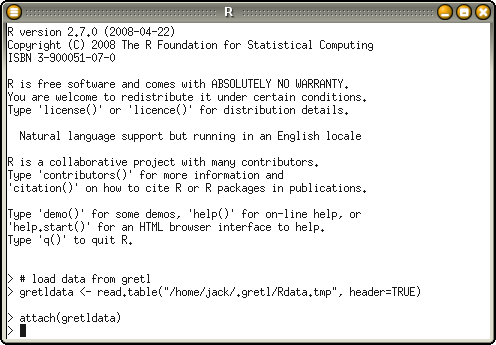
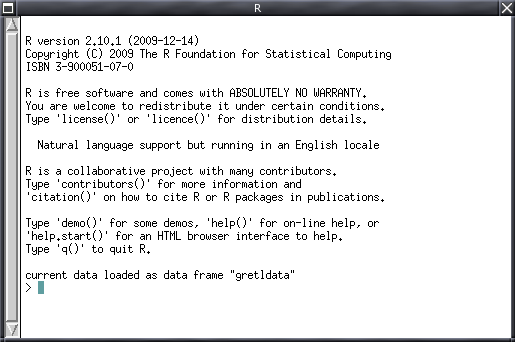
update gretl <-> R documentation

Changed region(s): [[0.0, 0.0, 1.0, 1.0], [0.6956, 0.8187, 0.8468, 0.8772]]

diff --git a/doc/tex/gretlR.tex b/doc/tex/gretlR.tex
@@ -111,18 +111,14 @@ installed and working on your system and that \app{gretl} knows where
 it is. The relevant settings can be found by selecting the ``Tools,
 Preferences, General'' menu entry, under the ``Programs'' tab.
 
-Assuming \app{R} was launched successfully, you will notice that two
-commands have been executed automatically:
-\begin{code}
-  gretldata <- read.table("/home/jack/.gretl/Rdata.tmp", header=TRUE)
-  attach(gretldata)
-\end{code}
-These commands have the effect of loading our dataset into the \app{R}
-workspace in the form of a \emph{data frame} (one of several forms in
-which \app{R} can store data). Use of a data frame enables the
-subsequent \texttt{attach()} command, which sets things up so that the
-variable names defined in the \app{gretl} workspace are available as
-valid identifiers within \app{R}.
+Assuming \app{R} was launched successfully, you will see notification
+that the data from gretl are available.  In the background,
+\app{gretl} has arranged for two \app{R} commands to be executed, one
+to load the \app{gretl} dataset in the form of a \emph{data frame}
+(one of several forms in which \app{R} can store data) and one to
+\emph{attach} the data so that the variable names defined in the
+\app{gretl} workspace are available as valid identifiers within
+\app{R}.
 
 In order to replicate \app{gretl}'s OLS estimation, go into the \app{R}
 window and type at the prompt
@@ -193,22 +189,14 @@ Akaike information criterion & -483.39
 \end{table}
 
 If we now open an \app{R} session as described in the previous
-subsection, the data-passing mechanism is slightly different.  The
-\app{R} commands that read the data from \app{gretl} are in this case
-\begin{code}
-# load data from gretl
-gretldata <- read.table("/home/jack/.gretl/Rdata.tmp", header=TRUE)
-gretldata <- ts(gretldata, start=c(1949, 1), frequency = 12)
-\end{code}
-
-Since our data were defined in \app{gretl} as time series, we use an
-\app{R} \emph{time-series} object (\emph{ts} for short) for the
-transfer.  In this way we can retain in \app{R} useful information
-such as the periodicity of the data and the sample limits.  The
-downside is that the names of individual series, as defined in
-\app{gretl}, are not valid identifiers. In order to extract the
-variable \texttt{lg}, one needs to use the syntax
-\verb|lg <- gretldata[, "lg"]|.
+subsection, the data-passing mechanism is slightly different.  Since
+our data were defined in \app{gretl} as time series, we use an \app{R}
+\emph{time-series} object (\emph{ts} for short) for the transfer.  In
+this way we can retain in \app{R} useful information such as the
+periodicity of the data and the sample limits.  The downside is that
+the names of individual series, as defined in \app{gretl}, are not
+valid identifiers. In order to extract the variable \texttt{lg}, one
+needs to use the syntax \verb|lg <- gretldata[, "lg"]|.
 
 ARIMA estimation can be carried out by issuing the following two
 \app{R} commands:
@@ -412,41 +400,18 @@ gretl.export(vars)
 \end{code}
 %$
 
-In this case, running the above in \app{R} produces nothing more that
-the echoing of commands:
+Running this script via \app{gretl} produces minimal output:
 \begin{code}
-> # load data from gretl
-> gretldata <- read.table("/home/jack/.gretl/Rdata.tmp", header=TRUE)
-
-> gretldata <- ts(gretldata, start=c(1949, 1), frequency = 12)
-
-> # load script from gretl
-> # extract the log series 
-> y <- gretldata[, "lg"]
-
-> # estimate the model
-> strmod <- StructTS(y)
-
-> # save the fitted components (smoothed)
-> compon <- as.ts(tsSmooth(strmod))
-
-> # save the estimated variances
-> vars <- as.matrix(strmod$coef)
-
-> # export into gretl's temp dir
-> gretl.export(compon)
-
-> gretl.export(vars)
+current data loaded as ts object "gretldata"
+wrote /home/cottrell/.gretl/compon.csv 
+wrote /home/cottrell/.gretl/vars.mat 
 \end{code}
-%$
-
-However, we see from the output that the two \texttt{gretl.export()}
-commands ran without errors. Hence, we are ready to pull the results
-back into \app{gretl} by executing the following commands, either from
-the console or by creating a small script:\footnote{This example will
-  work on Linux and presumably on OSX without modifications. On the
-  Windows platform, you may have to substitute the ``\texttt{/}''
-  character with ``$\backslash$''.}
+However, we are now able to pull the results back into \app{gretl} by
+executing the following commands, either from the console or by
+creating a small script:\footnote{This example will work on Linux and
+  presumably on OSX without modifications. On the Windows platform,
+  you may have to substitute the ``\texttt{/}'' character with
+  ``$\backslash$''.}
 \begin{code}
 append @dotdir/compon.csv
 vars = mread("@dotdir/vars.mat")

diff --git a/lib/src/gretl_foreign.c b/lib/src/gretl_foreign.c
@@ -512,6 +512,7 @@ static int write_data_for_R (const double **Z,
 			     FILE *fp)
 {
     gchar *Rdata, *Rline;
+    int ts = dataset_is_time_series(pdinfo);
     int err;
 
     Rdata = g_strdup_printf("%sRdata.tmp", gretl_dot_dir);
@@ -528,7 +529,7 @@ static int write_data_for_R (const double **Z,
     fprintf(fp, "gretldata <- read.table(\"%s\", header=TRUE)\n", Rdata);
     g_free(Rdata);
 
-    if (dataset_is_time_series(pdinfo)) {
+    if (ts) {
 	char *p, datestr[OBSLEN];
 	int subper = 1;
 	    
@@ -544,9 +545,13 @@ static int write_data_for_R (const double **Z,
 	fputs("attach(gretldata)\n", fp);
     }
 
-    if (!err && (opt & OPT_I)) {
-	/* interactive: let the user see that this worked */
-	fputs("gretlmsg <- \"current data loaded as \\\"gretldata\\\"\\n\"\n", fp);
+    if (!err) {
+	/* let the user see that this worked */
+	if (ts) {
+	    fputs("gretlmsg <- \"current data loaded as ts object \\\"gretldata\\\"\\n\"\n", fp);
+	} else {
+	    fputs("gretlmsg <- \"current data loaded as data frame \\\"gretldata\\\"\\n\"\n", fp);
+	}
 	fputs("cat(gretlmsg)\n", fp);
     }
 
@@ -576,6 +581,8 @@ static void write_R_export_func (FILE *fp)
     fputs("    write(dim(x), fname)\n", fp);
     fputs("    write(t(x), file=fname, ncolumns=ncol(x), append=TRUE)\n", fp);
     fputs("  }\n", fp);
+    fputs("  gretlmsg <- paste(\"wrote\", fname, \"\\n\")\n", fp);
+    fputs("  cat(gretlmsg)\n", fp);
     fputs("}\n", fp);
 }
 
